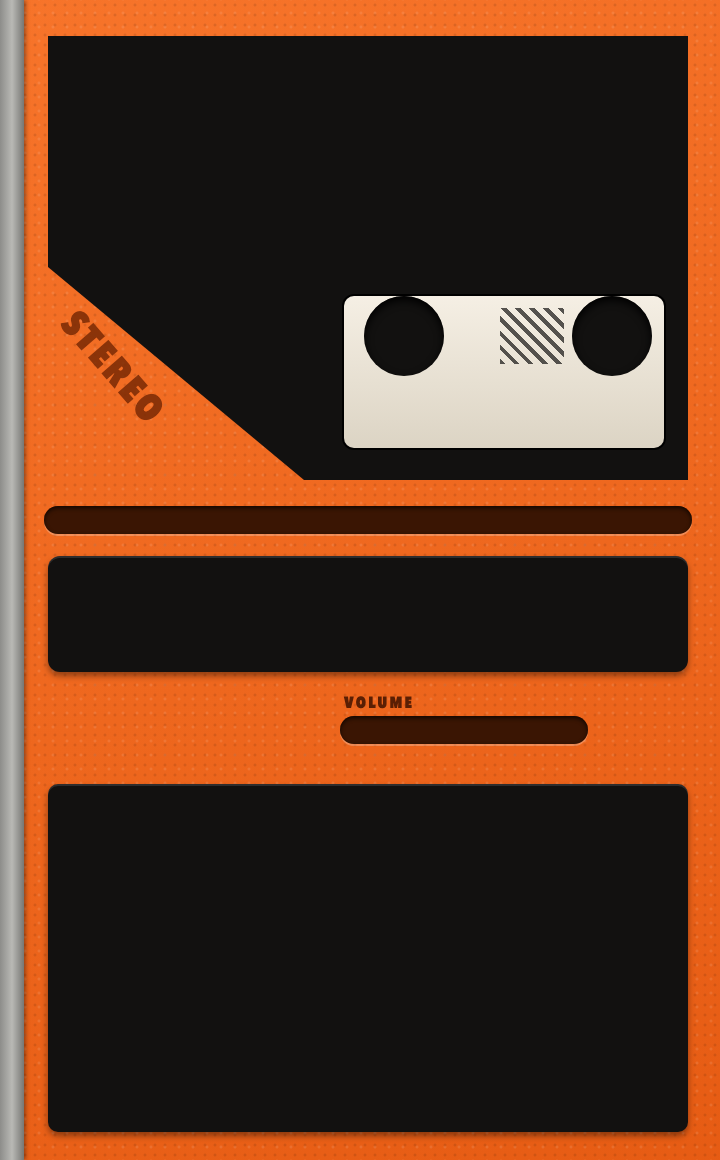
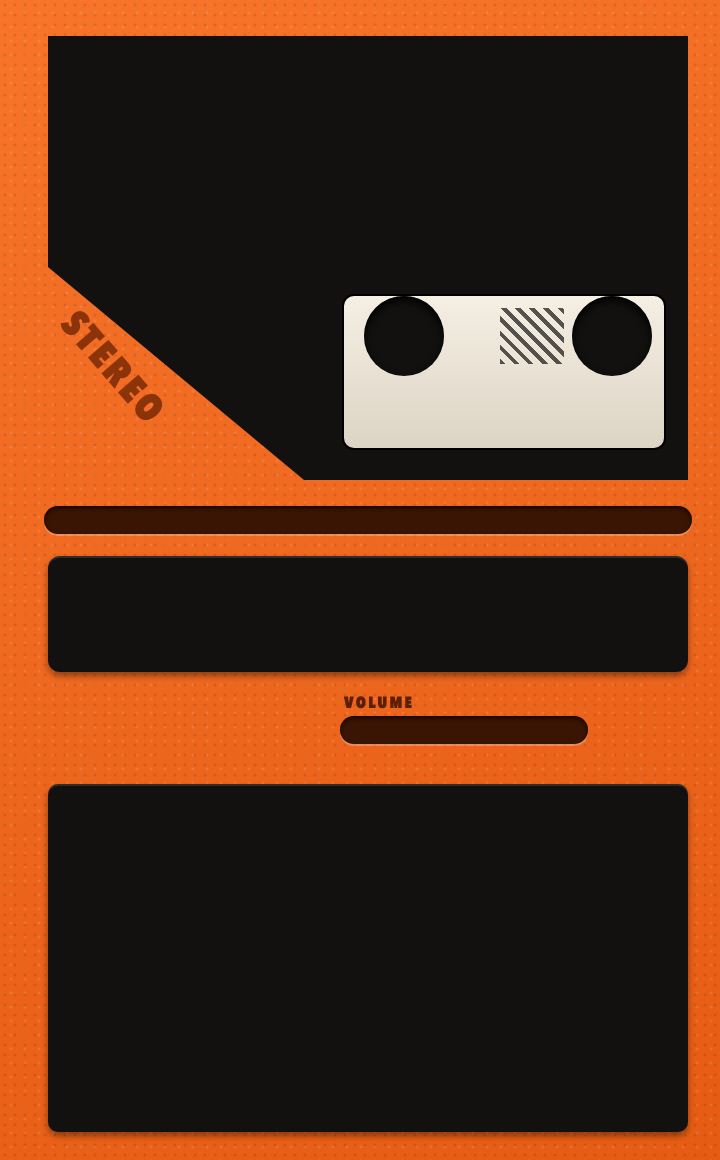
feat(skins): a skin may colour the title bar; Walk is orange to the edge
`windows.player.titleBar` sets the colour of the window's title bar where the
system allows it (macOS, with a transparent title bar). Walk uses it and loses
its grey edge.

Changed region(s): [[0.0, 0.0, 0.0611, 1.0]]

diff --git a/crates/fc-core/src/skins/manifest.rs b/crates/fc-core/src/skins/manifest.rs
@@ -113,6 +113,9 @@ pub struct PlayerWindow {
     /// Scale images without smoothing (pixel art).
     #[serde(default)]
     pub pixelated: bool,
+    /// Colour of the title bar of the window, where the system lets an app choose it.
+    #[serde(default)]
+    pub title_bar: Option<String>,
     /// How the window may be resized (`absolute` layout only). Without it the size is fixed.
     #[serde(default)]
     pub resize: Option<Resize>,
@@ -381,8 +384,12 @@ pub fn validate(
 fn check_player(r: &mut Report, player: &PlayerWindow, file: &dyn Fn(&str) -> Option<Vec<u8>>) {
     let at = "windows.player";
     if player.layout == Layout::Flow {
-        if !player.components.is_empty() || player.background.is_some() || player.resize.is_some() {
-            r.add(at, "components, background and resize need \"layout\": \"absolute\"");
+        let absolute_only = !player.components.is_empty()
+            || player.background.is_some()
+            || player.resize.is_some()
+            || player.title_bar.is_some();
+        if absolute_only {
+            r.add(at, "components, background, titleBar and resize need \"layout\": \"absolute\"");
         }
         return;
     }
@@ -395,6 +402,10 @@ fn check_player(r: &mut Report, player: &PlayerWindow, file: &dyn Fn(&str) -> Op
     }
     if let Some(background) = &player.background {
         check_image(r, &format!("{at}.background"), background, file);
+    }
+    // opaque, six digits: the system takes no other
+    if player.title_bar.as_ref().is_some_and(|c| !is_colour(c) || c.len() != 7) {
+        r.add(format!("{at}.titleBar"), "must be a colour like #rrggbb");
     }
     if let Some(resize) = &player.resize {
         let axes = [

diff --git a/src-tauri/src/commands/skins.rs b/src-tauri/src/commands/skins.rs
@@ -91,6 +91,17 @@ pub fn fit_window(window: &WebviewWindow, skin: &Skin) {
     if let Err(e) = result {
         log::warn!("window not fitted to the skin {}: {e}", skin.id());
     }
+    // the title bar is see-through where the system allows it (macOS): it takes this colour
+    if let Err(e) = window.set_background_color(title_bar_colour(skin)) {
+        log::warn!("title bar not coloured for the skin {}: {e}", skin.id());
+    }
+}
+
+/// The colour a skin wants its title bar in; `None` leaves it to the system.
+fn title_bar_colour(skin: &Skin) -> Option<tauri::window::Color> {
+    let colour = skin.manifest.windows.player.as_ref()?.title_bar.as_deref()?;
+    let part = |at: usize| u8::from_str_radix(colour.get(at..at + 2)?, 16).ok();
+    Some(tauri::window::Color(part(1)?, part(3)?, part(5)?, 255))
 }
 
 /// The largest size the skin lets its window grow to; its own size where a side is fixed.
@@ -410,6 +421,14 @@ mod tests {
         .unwrap();
         assert_eq!(fixed_size(&flow), None);
         assert!(fixed_size(&library.get(DEFAULT_SKIN).unwrap()).is_some());
+    }
+
+    #[test]
+    fn a_skin_may_colour_its_title_bar() {
+        let library = SkinLibrary::load(None, "0.1.0");
+        let walk = library.get("io.github.krocon.walk").unwrap();
+        assert_eq!(title_bar_colour(&walk), Some(tauri::window::Color(0xe9, 0x62, 0x1a, 255)));
+        assert_eq!(title_bar_colour(&library.get("io.github.krocon.retro").unwrap()), None);
     }
 
     #[test]

diff --git a/crates/fc-core/src/skins/tests.rs b/crates/fc-core/src/skins/tests.rs
@@ -190,6 +190,14 @@ fn keywords_and_the_stretch_line_are_checked() {
 }
 
 #[test]
+fn the_colour_of_the_title_bar_is_six_digits() {
+    let at = "windows.player.titleBar";
+    assert_eq!(problems_of(|j| j["windows"]["player"]["titleBar"] = "#e9621a".into()), [""; 0]);
+    assert_eq!(problems_of(|j| j["windows"]["player"]["titleBar"] = "#e62".into()), [at]);
+    assert_eq!(problems_of(|j| j["windows"]["player"]["titleBar"] = "orange".into()), [at]);
+}
+
+#[test]
 fn the_rules_for_resizing_are_checked() {
     let resize =
         |rules: serde_json::Value| problems_of(move |j| j["windows"]["player"]["resize"] = rules);

diff --git a/docs/SKIN-FORMAT.md b/docs/SKIN-FORMAT.md
@@ -84,6 +84,7 @@ mitbringen; er nennt Schriften, die das System hat.
 | `width`, `height` | nur bei `absolute`, dann Pflicht: 200–2000 × 100–2000 CSS-Pixel. Das ist die Größe des Fensterinhalts. |
 | `background` | Bild im Paket, füllt das Fenster. |
 | `pixelated` | `true`: Bilder ohne Glättung skalieren (Pixel-Art). |
+| `titleBar` | Farbe der Titelleiste des Fensters, `#rrggbb`. Wirkt, wo das System es zulässt (macOS: durchsichtige Titelleiste); sonst bleibt die Titelleiste, wie das System sie zeichnet. Nur bei `absolute`. |
 | `resize` | Regeln, nach denen das Fenster wachsen darf – siehe unten. Nur bei `absolute`; ohne `resize` ist die Größe fest. |
 | `components` | Liste der Bausteine, höchstens 200. Nur bei `absolute`. |
 
